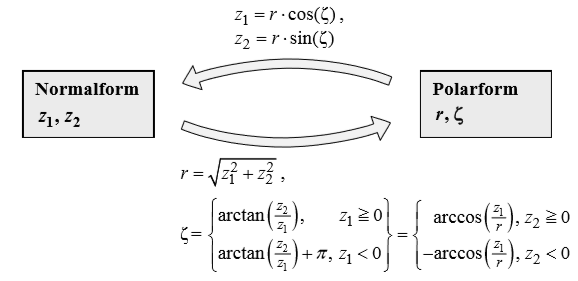
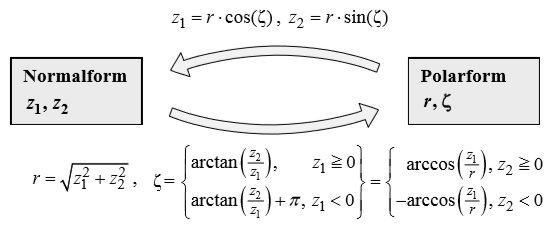
improvements

Changed region(s): [[0.2757, 0.0, 1.0, 0.9655], [0.0, 0.2414, 0.2757, 0.5431], [0.0613, 0.694, 0.245, 0.8147]]

diff --git a/Sections/Fourierreihe.tex b/Sections/Fourierreihe.tex
@@ -9,8 +9,7 @@ FR[f(t)] = \frac{a_0}{2} + \sum_{n = 1}^{\infty}[a_n \cdot \cos(n\omega_ft) + b_
 \noindent\textbf{Hinweis:} Immer zuerst überprüfen, ob eine Ähnliche $FR$ bereits existiert und mit Hilfe der Tip's in \ref{tip} berechnen.
 
 \subsection{Fourierkoeffizienten}
-Eine periodische Funktion $f$ mit \textbf{Periodendauer} $T > 0$, lässt sich durch eine Reihe von Sinus- und Kosinusfunktionen darstellen,
-deren Frequenzen ganzzahlige Vielfache der Grundfrequenz $\omega = 2\pi/T$ sind:
+Eine periodische Funktion $f$ mit \textbf{Periodendauer} $T > 0$, lässt sich durch eine Reihe von Sinus- und Kosinusfunktionen darstellen, deren Frequenzen ganzzahlige Vielfache der Grundfrequenz $\omega = 2\pi/T$ sind:
 \[f(t) = \frac{a_0}{2} + \sum_{n = 1}^{\infty}[a_n \cdot \cos(n\omega_ft) + b_n \cdot \sin(n\omega_ft)]\]
 
 \noindent Konkret können die Koeffizienten der Funktion $f(t)$ folgendermassen berechnet werden ($n \in [1;\infty]$):
@@ -23,11 +22,11 @@ a_n = \frac{2}{T}\int_{0}^{T}f(t) \cdot \cos(n\omega t)dt \qquad b_n = \frac{2}{
 
 \noindent Mittels der komplexen Darstellung werden die Fourierkoeffizienten mit $c_n \rightarrow \Re(c_n) = a_n; \Im(c_n) = b_n$ dargestellt.
 \[
-\sum_{k=-\infty}^{\infty}\left(c_ke^{jk\omega_f t}\right)
+\sum_{n=-\infty}^{\infty}c_n \cdot e^{jk\omega t}
 \]
 Diese Fourierkoeffizienten $c_n$ können mit einer einzigen Integration berechnet werden:
 \[
-c_n = \frac{1}{T} \int_{0}^{T}f(t)\cdot e^{-jn\omega_f t} dt
+c_n = \frac{1}{T} \int_{0}^{T}f(t)\cdot e^{-jn\omega t} dt
 \]
 
 \subsubsection{Umrechnung}\label{umrechnung}
@@ -39,15 +38,34 @@ Um Komplexe zu Reellen Koeffizieten umzurechnen können folgende Formeln gebrauc
 \end{align*}
 
 \subsection{Tip's}\label{tip}
-\subsubsection{Symmetrie}
-Für alle \textbf{geraden} T-periodische Funktionen ($f(t) = f(-t)$)  gilt $b_n = 0$ und für $a_n$ gilt: 
+\subsubsection{Funktionen mit Fallunterscheidungen}
+Falls eine Funktion mit Fallunterscheidung in eine Fourierreihe transformiert werden muss, muss von Rand-zu-Rand integriert werden.
+
+\noindent\textbf{Beispiel:}
 \[
-a_n = \frac{4}{T}\int_{0}^{\frac{T}{2}}f(t) \cdot \cos(n\omega_f t)dt
+f(t)= e^{-\left|t\right|} \qquad t \in [-\pi;\pi] \qquad T = 2\pi
+\]
+\begin{center}
+	\includegraphics[width=0.6\columnwidth]{Images/\beispiel_e_cn}
+\end{center}
+
+\noindent Dafür kann für Reelle Koeffizienten die Symmetrie ausgenutzt und von $[0;\pi]$ integriert werden. In der Komplexen Welt \textit{müssen} zwei Integrale berechnet werden:
+\[
+c_n = \frac{1}{2\pi}\int_{-\pi}^{0}e^t\cdot e^{-jnt}dt + \int_{0}^{\pi}e^{-t}\cdot e^{-jnt}dt
 \]
 
-\noindent Ist die Funktion \textbf{ungerade} ($f(-t) = -f(t)$) dann gilt $a_n = 0$ und für $b_n$:
+\subsubsection{Symmetrie}
+\textbf{ACHTUNG:} Gilt nur für $\mathbb{R}$ Fourierreihe! In $\mathbb{C}$ Reihe darf nicht über die halbe Periode Integriert und das Resultat verdoppelt werden! 
+~\\
+~\\
+\noindent Für alle \textbf{geraden} T-periodische Funktionen ($f(t) = f(-t)$)  gilt $b_n = 0$ und für $a_n$ gilt ($\Im(c_n) = 0$): 
 \[
-	b_n = \frac{4}{T}\int_{0}^{\frac{T}{2}}f(t) \cdot \sin(n\omega_f t)dt 
+a_n = \frac{4}{T}\int_{0}^{\frac{T}{2}}f(t) \cdot \cos(n\omega t)dt
+\]
+
+\noindent Ist die Funktion \textbf{ungerade} ($f(-t) = -f(t)$) dann gilt $a_n = 0$ und für $b_n$ ($\Re(c_n) = 0$):
+\[
+	b_n = \frac{4}{T}\int_{0}^{\frac{T}{2}}f(t) \cdot \sin(n\omega t)dt 
 \]
 
 
@@ -89,13 +107,34 @@ FR[f(t)] = a_0 + a_1\cdot\sin(1\pi t) + a_2\cdot\sin(2\pi t) + \cdots + a_n\cdot
 \]
 
 \subsubsection{Zeitverschiebung}
-Wenn eine Funktion $f(t)$ um $t_0$ verschoben wird $g(t) = f(t + t_0)$, gilt für die Fourierkoeffizienten von $g$:
+Wenn eine Funktion $f(t)$ um $t_0$ verschoben wird $g(t) = f(t + t_0)$, gilt für die Fourierkoeffizienten von $g$.
 \[
 t_0 < 0 \Rightarrow \text{Links verschiebung} \qquad t_0 > 0 \Rightarrow \text{Rechts verschiebung}
 \]
 
+\noindent\textbf{Für $\mathbb{R}$}:
 \begin{align*}
 	a_n^{(g)} &= \cos(n\omega t_0) \cdot a_n^{(f)} + \sin(n\omega t_0) \cdot b_n^{(f)}  \\
 	b_n^{(g)} &= -\sin(n\omega t_0) \cdot a_n^{(f)} + \cos(n\omega t_0) \cdot b_n^{(f)}  \\
 \end{align*}
 
+\noindent\textbf{Für $\mathbb{C}$}:
+\[
+c_n^{(g)} = e^{jn\omega t_0} \cdot c_n^{(f)}
+\]
+
+\subsection{Konvergenzverhalten}
+Um das Konvergenzverhalten von $f$ und der Fourierreihe $\hat{f}$ zu untersuchen, wird die mittlere quadratische Abweichung verwendet:
+\[
+\Vert f - \hat{f} \Vert = \sqrt{\frac{2}{T}\int_{0}^{T}\left[f(t) - \hat{f}(t)\right]^2dt}
+\]
+\begin{center}
+	\includegraphics[width=\columnwidth]{Images/konvergenz}
+\end{center}
+
+\noindent Das hat zur Folge, dass die Fourierkoeffizienten $a_n$ und $b_n$ gegen $0$ konvergieren müssen. Je \textit{glatter} eine Funktion, desto schneller Konvergiert die Fourierreihe $\hat{f}$ mit der Original Reihe $f$. "Glat" bedeutet, je mehr Ableitungen ohne Sprungstellen oder Knicke eine Funktion $f^{(n)}$ hat, desto schneller konvergiert $f$.
+~\\
+\noindent Zudem gilt die Parseval'sche Gleichung:
+\[
+\frac{a_0^2}{2} + \sum\limits_{n=1}^{\infty}\left(a_n^2 + b_n^2\right) = \frac{2}{T}\int_{0}^{T}[f(t)]^2dt = \Vert f \Vert^2
+\]

diff --git a/Sections/Komplexe Funktionen.tex b/Sections/Komplexe Funktionen.tex
@@ -1,9 +1,22 @@
 \section{Komplexe Funktionen}
-\subsection{Exponential-/Logarithmusfunktion}
-\[e^{j\zeta}= \cjs(\zeta) = \cos\zeta + j\sin\zeta\]
+\subsection{Exponential-/Logarithmusfunktion}\label{expfunc}
+\[e^{j\alpha}= \cjs(\alpha) = \cos\alpha + j\sin\alpha\]
 
 \[e^z= e^{z_1 + jz_2} = e^{z_1}\cdot e^{jz_2} = e^{z_1} \cdot \cjs(z_2) \qquad z \in \mathbb{C} \]
 Realteil $z_1$ von $e^{z_1+jz_2}$ ist der Streckungsfaktor. Der Imaginärteil $z_2$ ist der zweite Term.
+
+\subsection{Logarithmus und Potenzen}
+\subsubsection{Logarithmus}\label{logfunc}
+Der reelle Logarithmus hat den Wert $\ln(1) = 0$. Der komplexe Logarithmus ist definiert als:
+\[\Ln(z) = \ln(\left|z\right|) + j\cdot arg(z) \]
+
+\noindent\textbf{Achtung:} Im komplexen gibt es unendlich viele Lösungen für zB $\Ln(1)= 2k\pi j$. Auch in $\mathbb{C}$ ist $\Ln(0) = undef$ nicht definiert.
+
+\subsubsection{Potenzen}\label{potfunc}
+Potenzen mit komplexen Exponenten besitzen $\infty$-wertig Resultate, nur für $b \in \mathbb{Z}$ sind diese eindeutig.
+\[
+a^b = e^{b \cdot \Ln(a)} \qquad (a,b \in \mathbb{C};  a \neq 0)
+\]
 
 \subsection{Trigonometrie ($z \in \mathbb{C})$}
 \[\sin(z) = \frac{e^{jz} -e^{-jz}}{2j} \quad \cos(a) = \frac{e^{jz} +e^{-jz}}{2} \quad \tan(z) = \frac{\sin(z)}{\cos(z)}\]
@@ -17,24 +30,15 @@ z(t) = A \cdot e^{j(\omega t + \varphi)} = \underbrace{A \cdot e^{j\varphi}}_\te
 \noindent Beispiel:
 \begin{align*}
 	y_1 &= A\sin[\omega t + \varphi] &\qquad y_2 &= A\sin[\omega t + (\varphi + 120°)] \\
-	    &= A e ^{j(\omega t + j\varphi)} &\qquad  &= A e^{j(\omega t + \varphi - 120)}\\
- 	    &= A e ^{j\omega t} \cdot \underbrace{e^{j\varphi}}_{K_1} &\qquad  &= A e^{j\omega t} \cdot \underbrace{e^{j(\varphi - 120)}}_{K_2}\\    
-  	\\
-  y &= y_1 + y_2 &&= A e^{j\omega t} (K_1 + K_2) 
+	&= A e ^{j(\omega t + j\varphi)} &\qquad  &= A e^{j(\omega t + \varphi - 120)}\\
+	&= A e ^{j\omega t} \cdot \underbrace{e^{j\varphi}}_{K_1} &\qquad  &= A e^{j\omega t} \cdot \underbrace{e^{j(\varphi - 120)}}_{K_2}\\    
+	\\
+	y &= y_1 + y_2 &&= A e^{j\omega t} (K_1 + K_2) 
 \end{align*}
-
-\subsection{Logarithmus und Potenzen}
-$\mathbb{R}: \ln(1) = 0 \quad \mathbb{C}: \Ln(1)= 2k\pi j$
-\[\Ln(z) = \ln(\left|z\right|) + j\cdot arg(z) \]
-
-\noindent\textbf{Achtung:} $\Ln(0) = undef$
-
 
 \subsection{Abbildungen}
 Um eine Abbildung $w$ durch eine Funktion $f$ auszudrücken, werden gegebene Komplexe Zahlen $z_i$ parametrisiert $r(z_i), c(z_i)$ und mit $f$ verrechnet.
 \[z = r(z_i) + jc(z_i) \rightarrow f(z) = w \]
-
-
 
 \subsubsection{Parametrisierung}
 \subsubsection{Vektoren}
@@ -82,7 +86,7 @@ Um eine Abbildung $w$ durch eine Funktion $f$ auszudrücken, werden gegebene Kom
 \newpage 
 
 \subsection{Ableitung}
-Die Ableitung $f'$ in $\mathbb{C}$ entspricht einer Drehstreckung mit Faktor $f'$. Eine differenzierbare Funktion $f$ ist in allen Punkten mit $f'(z) \neq 0$ winkeltreu. Sie bewirkt dort eine Drehstreckung mit \textbf{Drehwinkel} $\arg(f'(z))$ und \textbf{Streckfaktor} $|f'(z)|$.
+Die Ableitung $f'$ in $\mathbb{C}$ entspricht einer Drehstreckung mit Faktor $f'$. Eine differenzierbare Funktion $f$ ist in allen Punkten mit $f'(z) \neq 0$ \textbf{winkeltreu}. Sie bewirkt dort eine Drehstreckung mit \textbf{Drehwinkel} $\arg(f'(z))$ und \textbf{Streckfaktor} $|f'(z)|$.
 
 \subsection{Potenzfunktion $f(z) = z^n$}
 In Polar-Koordinaten Darstellung werden die Winkel um das $n$-Fache verdoppelt, bzw. mit $\sqrt[n]{z}$ halbiert.
@@ -94,7 +98,7 @@ $b$ bewirkt eine Translation um den Ortsvektor $b$. $a$ bewirkt eine Drehstrecku
 
 
 \subsection{Kehrwertfunktion $f(z) = \frac{1}{z}$}
-Bewirkt eine \underline{Kreisspiegelung}. Viele Gebiete können via Rand mit folgenden Umformungen abgesteckt und bestimmt werden.
+Bewirkt eine \underline{Kreisspiegelung} und ist überall in $\mathbb{C}\cup\{\infty\}$ winkeltreu. Viele Gebiete können via Rand mit folgenden Umformungen abgesteckt und bestimmt werden.
 
 \includegraphics[width=\columnwidth]{Images/kehrwert_funktion}\\
 ~\\

diff --git a/Sections/Komplexe Zahlen.tex b/Sections/Komplexe Zahlen.tex
@@ -18,15 +18,15 @@ $\Re(a) = a_1$\\
 $\Im(a) = a_2$\\
 
 \noindent\textbf{Komplex Konjugiert}\\
-$\overline{z} = z^* = \overline{z_1 + jz_2} = z_1 - jz_2$\\
+$\overline{a} = a^* = \overline{a_1 + ja_2} = a_1 - ja_2$\\
 
 \noindent\textbf{Betrag}\\
 $\left|a\right| = r = \sqrt{\Re(a)^2 + \Im(a)^2} = \sqrt{a_1^2 + a_2^2} $\\
 
 \noindent\textbf{Argument}\\
 $\arg(a) = \zeta = \left\{\begin{array}{ll}
-	a_2 \geq 0 ,& \arccos\left(\frac{a_1}{r}\right) \\
-	a_2 < 0 ,& -\arccos\left(\frac{a_1}{r}\right) \\
+	a_2 \geq 0 ,& \arccos\left(\frac{a_1}{r}\right) \text{ oder } \arctan\left(\frac{a_1}{a_2}\right)\\
+	a_2 < 0 ,& -\arccos\left(\frac{a_1}{r}\right) \text{ oder } \arctan\left(\frac{a_1}{a_2}\right) + \pi\\
 \end{array}\right.$\\
 
 
@@ -48,24 +48,28 @@ $\frac{a_1 + ja_2}{b_1 + jb_2} = \frac{(a_1 + ja_2)}{(b_1 + jb_2)} \cdot \underb
 \subsubsection{Polar}
 In diesem Koordinatensystem lassen sich \textit{Multiplikation} und \textit{Division} besonders einfach lösen!
 
-\noindent\textbf{Multiplikation}\\
-$\Re(z) = |a_1| \cdot |b_1| \qquad \Im(z) = \arg(a_2 \cdot b_2) = \arg(a_2) + \arg(b_2)$\\
+\noindent\textbf{Multiplikation $a \cdot b = c$}\\
+$\Re(c) = |a_1| \cdot |b_1| \qquad \Im(z) = \arg(a_2 \cdot b_2) = \arg(a_2) + \arg(b_2)$\\
 
-\noindent\textbf{Division}\\
-$\Re(z) = \frac{a_1}{b_1} \qquad \Im(z) = \arg(\frac{a_2}{b_2}) = \arg(a_2) - \arg(b_2)$\\
+\noindent\textbf{Division  $\frac{a}{b} = c$}\\
+$\Re(c) = \frac{a_1}{b_1} \qquad \Im(z) = \arg(\frac{a_2}{b_2}) = \arg(a_2) - \arg(b_2)$\\
 
-\noindent\textbf{Potenz ($n \in \mathbb{N}$)}\\
-$z^n = r^n \cdot [\cos(\zeta) + j\sin(\zeta)]^n = r^n \cdot [\cos(n\zeta) + j\sin(n\zeta)]$\\
+\noindent\textbf{Potenz ($n \in \mathbb{N}$)}, für $n \in \mathbb{C}$ siehe \ref{potfunc}\\
+$a^n = r^n \cdot [\cos(\zeta) + j\sin(\zeta)]^n = r^n \cdot [\cos(n\zeta) + j\sin(n\zeta)]$\\
 
 \noindent\textbf{n-te Wurzel}\\
 $z_{k+1} = \sqrt[n]{r} \cdot \cjs\left(\frac{2\pi}{n} + k \cdot \frac{2\pi}{n}\right) \qquad k \in (0, 1, \cdots, n-1)$
 
 ~\\
-\noindent\textbf{Hinweis:} Diese Punkte $z_{k+1}$ liegen im Abstand von $\sqrt[n]{r}$ zum Ursprung als regelmässiges n-Eck angeordnet. Alle $\Im(z_{k+1}) \neq 0$ \underline{müssen} konjugiert komplex sein (Vorzeichenwechsel von $\Im$ Komponente)!
+\noindent\textbf{Hinweis:} Diese Punkte $z_{k+1}$ liegen im Abstand von $\sqrt[n]{r}$ zum Ursprung als regelmässiges n-Eck angeordnet. Alle $\Im(z_{k+1}) \neq 0$ \underline{müssen} konjugiert komplex sein (Vorzeichenwechsel von $\Im$ Komponente)! Reelle Lösungen treten nur einzeln auf. 
 
 \subsection{Polarform Umwandlung}
+Beispiel Format:
+\[
+z = z_1+ jz_2 \xRightarrow[]{\text{Polar (Trigo)}} r \cdot \left[\cos(\zeta) + j\sin(\zeta)\right] \xRightarrow[]{\text{Euler}} r \cdot e^{\zeta j}
+\]
 \begin{center}
-	\includegraphics[width=0.7\columnwidth]{Images/umwandlung}
+	\includegraphics[width=0.6\columnwidth]{Images/umwandlung}
 \end{center}
 
 \subsection{Ebene Geometrie}

diff --git a/Sections/Spektren.tex b/Sections/Spektren.tex
@@ -2,7 +2,7 @@
 \subsection{Kosinus- und Sinus-Amplitude Diagramm}
 Abtragen der $a_n$ und $b_n$ zu den entsprechenden $\omega$ Werten:\\
 \begin{center}
-	\includegraphics[width=0.6\columnwidth]{Images/amplituden_diagram}
+	\includegraphics[width=\columnwidth]{Images/amplituden_diagram}
 \end{center}
 
 
@@ -14,7 +14,7 @@ A_n = \left|a_n - jb_n\right| = \sqrt{a_n^2 + b_n^2} \qquad \varphi_n = \arg(a_n
 Wobei für $A_0 = \frac{a_0}{2}$ und $\varphi_0 = \arg(a_0)$ gilt.
 
 \begin{center}
-	\includegraphics[width=0.6\columnwidth]{Images/phasen_diagram}
+	\includegraphics[width=\columnwidth]{Images/phasen_diagram}
 \end{center}
 
 \noindent\textbf{Tip:} Siehe auch \ref{umrechnung} für die $\mathbb{C}$ Darstellung.
@@ -22,7 +22,7 @@ Wobei für $A_0 = \frac{a_0}{2}$ und $\varphi_0 = \arg(a_0)$ gilt.
 \subsection{Amplituden-/Phasendiagramm $\mathbb{C}$}
 Gleich wie $\mathbb{R}$ Diagramm, nur werden die entsprechenden $c_n$ abgetragen.\\
 \begin{center}
-	\includegraphics[width=0.6\columnwidth]{Images/phasen_diagram_complex}
+	\includegraphics[width=\columnwidth]{Images/phasen_diagram_complex}
 \end{center}
 
 \noindent\textbf{Tip:} Die Achsensymmetrie im Amplituden- und Punktsymmetrie im Phasen-Diagramm sind für alle Funktionen gegeben. Siehe auch \ref{umrechnung} für die $\mathbb{R}$ Darstellung.

diff --git a/Zusammenfassung.tex b/Zusammenfassung.tex
@@ -1,7 +1,7 @@
 % Document information
 \newcommand{\titleinfo}{Zusammenfassung KomFour}
 \newcommand{\authorinfo}{Sandro Pedrett}
-\newcommand{\version}{1.1}
+\newcommand{\version}{1.2}
 \newcommand{\versioninfo}{FS21}
 % Header
 \include{Template/Header}
